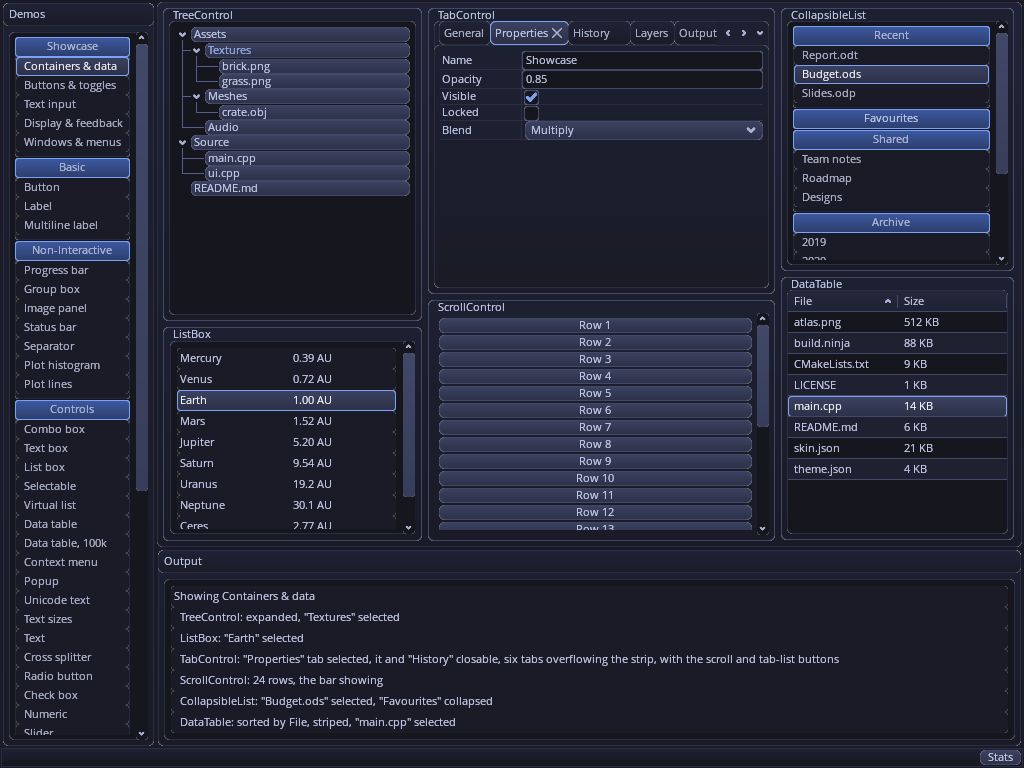
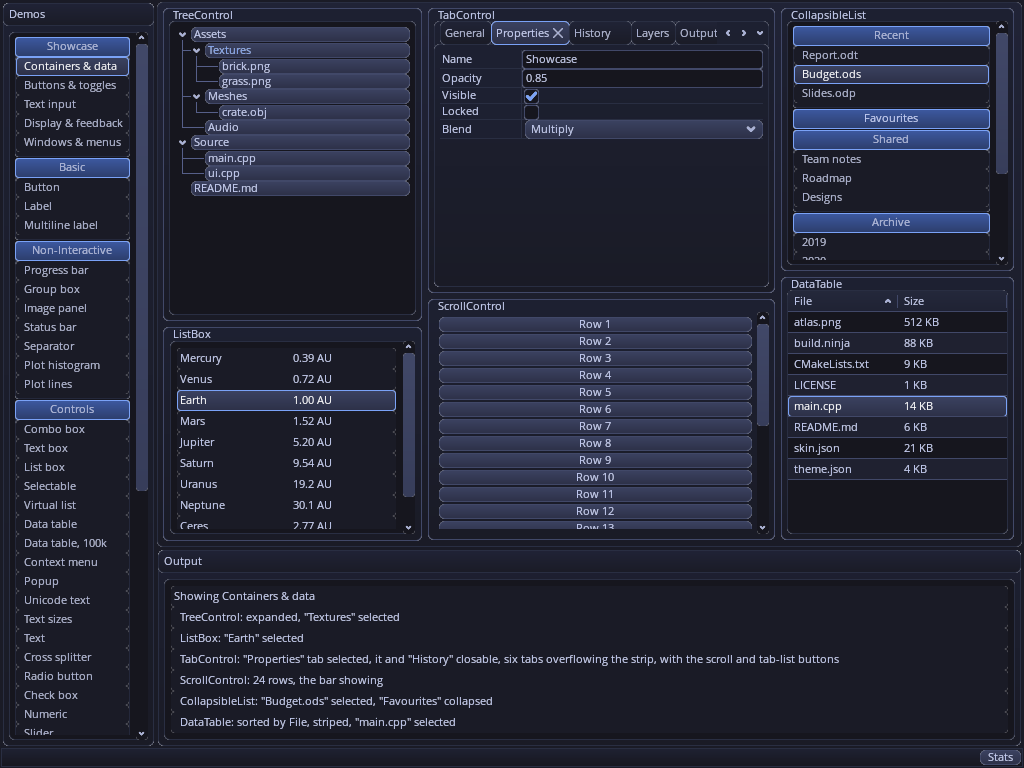
controls: a TabStrip reaches 1 unit into its page, its row 6 units in (#540)
TabStrip::setTabPosition gives the strip a margin of -PageOverlap (1) on the
side facing the page and clears the other sides', so a tab's last row (or
column) is the page frame's border row: the selected tab, drawn over the
frame, can open into the page inside its own bounds without the frame's slot
changing with the selection. The row starts LeadingPadding (6, the textured
page frame's corner radius) in instead of 5, so a first tab meets the frame's
straight edge. Docking the strip on another side at run time places it for
that side. The overflow buttons and the drag marker read neither margin.

tests/unit/tabStripPlacement.cpp checks the four sides, a switch at run time
and a Bottom strip's overflow buttons. demo.png regenerated: its TabControl's
tabs are a unit right and its page a unit up, and the group below it follows
the TabControl's height, a unit less.

Changed region(s): [[0.4062, 0.375, 0.75, 0.7188], [0.4375, 0.0312, 0.75, 0.1875]]

diff --git a/tests/unit/tabStripPlacement.cpp b/tests/unit/tabStripPlacement.cpp
@@ -1,0 +1,229 @@
+/*
+ *  Gweni
+ *  Copyright (c) 2010 Facepunch Studios
+ *  MIT License, see LICENSE
+ *
+ *  Where a TabControl's strip sits against its page frame (the TabControlInner
+ *  panel), on a real Canvas with the (un-init()'d) textured skin, for a strip on
+ *  each of the four sides.
+ *
+ *  The strip reaches TabStrip::PageOverlap (1) unit into the page on the side
+ *  facing it, a negative margin on that side alone, so the tabs' last row (or
+ *  column) is the frame's first: the selected tab, drawn over the frame, opens
+ *  into the page inside its own bounds. Every tab spans the strip across the
+ *  row, overlap included. The row starts TabStrip::LeadingPadding (6, the
+ *  textured page frame's corner radius) units in along the strip, so a first
+ *  tab's edge meets the frame's straight border. Docking the strip on another
+ *  side at run time sets the margin and padding of the new side and clears the
+ *  old one's, and a strip moved back is placed as it first was. The shown page
+ *  keeps its 6-unit margin inside the frame. A Bottom strip that overflows
+ *  centres its scroll buttons on the row as a Top one does.
+ */
+#include "headlessFixture.h"
+
+#include <gweni/controls/canvas.h>
+#include <gweni/controls/scrollBarButton.h>
+#include <gweni/controls/tabControl.h>
+#include <gweni/skins/textured/texturedSkin.h>
+
+#include <doctest/doctest.h>
+
+using namespace gweni;
+
+namespace
+{
+
+struct Scene
+{
+    test::StubRenderer renderer;
+    skin::textured::TexturedSkin skin{&renderer};
+    controls::Canvas *canvas=nullptr;
+
+    Scene()
+    {
+        canvas=new controls::Canvas(&skin);
+        canvas->setSize(500, 400);
+    }
+
+    Scene(const Scene &)=delete;
+    Scene &operator=(const Scene &)=delete;
+
+    ~Scene()
+    {
+        delete canvas;
+    }
+
+    //! A fixed 300x150 TabControl with \p count pages, the first selected.
+    controls::TabControl *tabControl(int count, int width=300)
+    {
+        static const char *const captions[]={"main.cpp", "app.h", "app.cpp", "window.h",
+            "window.cpp", "render.cpp", "shaders.glsl", "README.md"};
+        controls::TabControl *control=canvas->newChild<controls::TabControl>();
+
+        control->setSizeFlags({SizeFlag::Fixed, SizeFlag::Fixed});
+        control->setBounds(10, 10, width, 150);
+        for(int i=0; i < count; ++i)
+            control->addPage(captions[i]);
+        return control;
+    }
+
+    void settle()
+    {
+        for(int i=0; i < 3; ++i)
+        {
+            canvas->updateCanvas();
+            canvas->renderCanvas();
+        }
+    }
+};
+
+//! The TabControl's page frame, its inner panel.
+const controls::Base *pageFrame(controls::TabControl *control)
+{
+    return control->getInnerPanel();
+}
+
+bool sameMargin(const Margin &a, const Margin &b)
+{
+    return a.left == b.left && a.top == b.top && a.right == b.right && a.bottom == b.bottom;
+}
+
+const struct
+{
+    const char *name;
+    DockPosition dock;
+    Margin margin;      //!< the strip's: -PageOverlap on the side facing the page
+    bool horizontal;    //!< a row of tabs along x
+} g_sides[]=
+{
+    {"Top", DockPosition::Top, Margin(0, 0, 0, -controls::TabStrip::PageOverlap), true},
+    {"Bottom", DockPosition::Bottom, Margin(0, -controls::TabStrip::PageOverlap, 0, 0), true},
+    {"Left", DockPosition::Left, Margin(0, 0, -controls::TabStrip::PageOverlap, 0), false},
+    {"Right", DockPosition::Right, Margin(-controls::TabStrip::PageOverlap, 0, 0, 0), false}
+};
+
+//! The strip of \p control docked as \p side says, its tabs and frame placed so.
+void checkPlacement(controls::TabControl *control, const decltype(g_sides[0]) &side)
+{
+    controls::TabStrip *strip=control->getTabStrip();
+    const controls::Base *frame=pageFrame(control);
+    const int overlap=controls::TabStrip::PageOverlap;
+
+    REQUIRE(frame);
+    CHECK((strip->getDock() == side.dock));
+    CHECK(sameMargin(strip->getMargin(), side.margin));
+
+    const Rect s=strip->getBounds();
+    const Rect f=frame->getBounds();
+
+    // the strip reaches `overlap` into the frame on the side facing it
+    switch(side.dock)
+    {
+    case DockPosition::Top:
+        CHECK(f.y == s.y+s.h-overlap);
+        break;
+    case DockPosition::Bottom:
+        CHECK(f.y+f.h == s.y+overlap);
+        break;
+    case DockPosition::Left:
+        CHECK(f.x == s.x+s.w-overlap);
+        break;
+    default:
+        CHECK(f.x+f.w == s.x+overlap);
+        break;
+    }
+
+    // the row starts LeadingPadding in, and each tab spans the strip across it
+    const controls::TabButton *first=control->getTab(0);
+
+    CHECK((side.horizontal ? first->getX() : first->getY()) == controls::TabStrip::LeadingPadding);
+    for(int i=0; i < control->tabCount(); ++i)
+    {
+        const Rect t=control->getTab(i)->getBounds();
+
+        CAPTURE(i);
+        if(side.horizontal)
+        {
+            CHECK(t.y == 0);
+            CHECK(t.h == s.h);
+        }
+        else
+        {
+            CHECK(t.x == 0);
+            CHECK(t.w == s.w);
+        }
+    }
+
+    // the shown page keeps its margin inside the frame
+    controls::Base *page=control->getCurrentButton()->getPage();
+
+    CHECK(page->getX() == 6);
+    CHECK(page->getY() == 6);
+    CHECK(page->getWidth() == f.w-12);
+    CHECK(page->getHeight() == f.h-12);
+}
+
+}//namespace
+
+TEST_CASE("TabStrip on each side reaches PageOverlap into the page frame, its row LeadingPadding in")
+{
+    for(const auto &side : g_sides)
+    {
+        CAPTURE(side.name);
+
+        Scene scene;
+        controls::TabControl *control=scene.tabControl(3);
+
+        control->setTabStripPosition(side.dock);
+        scene.settle();
+        checkPlacement(control, side);
+    }
+}
+
+TEST_CASE("TabStrip moved to another side at run time is placed for the new side, and back as it was")
+{
+    Scene scene;
+    controls::TabControl *control=scene.tabControl(3);
+
+    scene.settle();
+
+    const Rect firstStrip=control->getTabStrip()->getBounds();
+    const Rect firstFrame=pageFrame(control)->getBounds();
+
+    for(const auto &side : g_sides)
+    {
+        CAPTURE(side.name);
+        control->setTabStripPosition(side.dock);
+        scene.settle();
+        checkPlacement(control, side);
+    }
+
+    control->setTabStripPosition(DockPosition::Top);
+    scene.settle();
+    checkPlacement(control, g_sides[0]);
+    CHECK((control->getTabStrip()->getBounds() == firstStrip));
+    CHECK((pageFrame(control)->getBounds() == firstFrame));
+}
+
+TEST_CASE("A Bottom TabStrip that overflows centres its scroll buttons on the row")
+{
+    Scene scene;
+    controls::TabControl *control=scene.tabControl(8, 200);
+
+    control->setTabStripPosition(DockPosition::Bottom);
+    scene.settle();
+    REQUIRE(control->isOverflowing());
+
+    const Rect s=control->getTabStrip()->getBounds();
+
+    for(controls::Base *child : control->getActualChildren())
+    {
+        if(!gweni_cast<controls::internal::ScrollBarButton>(child) || child->hidden())
+            continue;
+
+        const Rect b=child->getBounds();
+
+        CHECK(b.y == s.y+(s.h-controls::TabControl::ButtonSize)/2);
+        CHECK(b.x+b.w <= control->getWidth());
+    }
+}

diff --git a/include/gweni/controls/tabStrip.h b/include/gweni/controls/tabStrip.h
@@ -34,7 +34,20 @@ public:
     void dragAndDrop_hoverLeave(gweni::draganddrop::Package *package) override;
     void dragAndDrop_hover(gweni::draganddrop::Package *package, int x, int y) override;
 
+    //! Docks the strip on \a pos of its TabControl. The row starts LeadingPadding
+    //! units in, and the strip reaches PageOverlap units into the page on the
+    //! side facing it (a negative margin there), so a tab's last row lies on the
+    //! page frame's border row: the selected tab, drawn over the frame, opens
+    //! into the page inside its own bounds, and the frame's slot is the same
+    //! whichever tab is selected.
     virtual void setTabPosition(DockPosition pos);
+
+    //! Where the row starts along the strip, past the page frame's corner
+    //! radius (6 in the textured skin), so a selected first tab meets the
+    //! frame's straight edge, not its corner arc.
+    static constexpr int LeadingPadding=6;
+    //! How far the strip reaches into the page on the side facing it.
+    static constexpr int PageOverlap=1;
 
     virtual void setAllowReorder(bool b)
     {

diff --git a/source/controls/tabStrip.cpp b/source/controls/tabStrip.cpp
@@ -196,17 +196,31 @@ void TabStrip::setTabPosition(DockPosition pos)
 {
     setDock(pos);
 
+    // the row starts LeadingPadding in along the strip, and the side facing the
+    // page reaches PageOverlap into it
     if(m_dock == DockPosition::Top)
-        setPadding(Padding(5, 0, 0, 0));
+    {
+        setPadding(Padding(LeadingPadding, 0, 0, 0));
+        setMargin(Margin(0, 0, 0, -PageOverlap));
+    }
 
     if(m_dock == DockPosition::Left)
-        setPadding(Padding(0, 5, 0, 0));
+    {
+        setPadding(Padding(0, LeadingPadding, 0, 0));
+        setMargin(Margin(0, 0, -PageOverlap, 0));
+    }
 
     if(m_dock == DockPosition::Right)
-        setPadding(Padding(0, 5, 0, 0));
+    {
+        setPadding(Padding(0, LeadingPadding, 0, 0));
+        setMargin(Margin(-PageOverlap, 0, 0, 0));
+    }
 
     if(m_dock == DockPosition::Bottom)
-        setPadding(Padding(5, 0, 0, 0));
+    {
+        setPadding(Padding(LeadingPadding, 0, 0, 0));
+        setMargin(Margin(0, -PageOverlap, 0, 0));
+    }
 
     invalidateChildren(true);
 }
